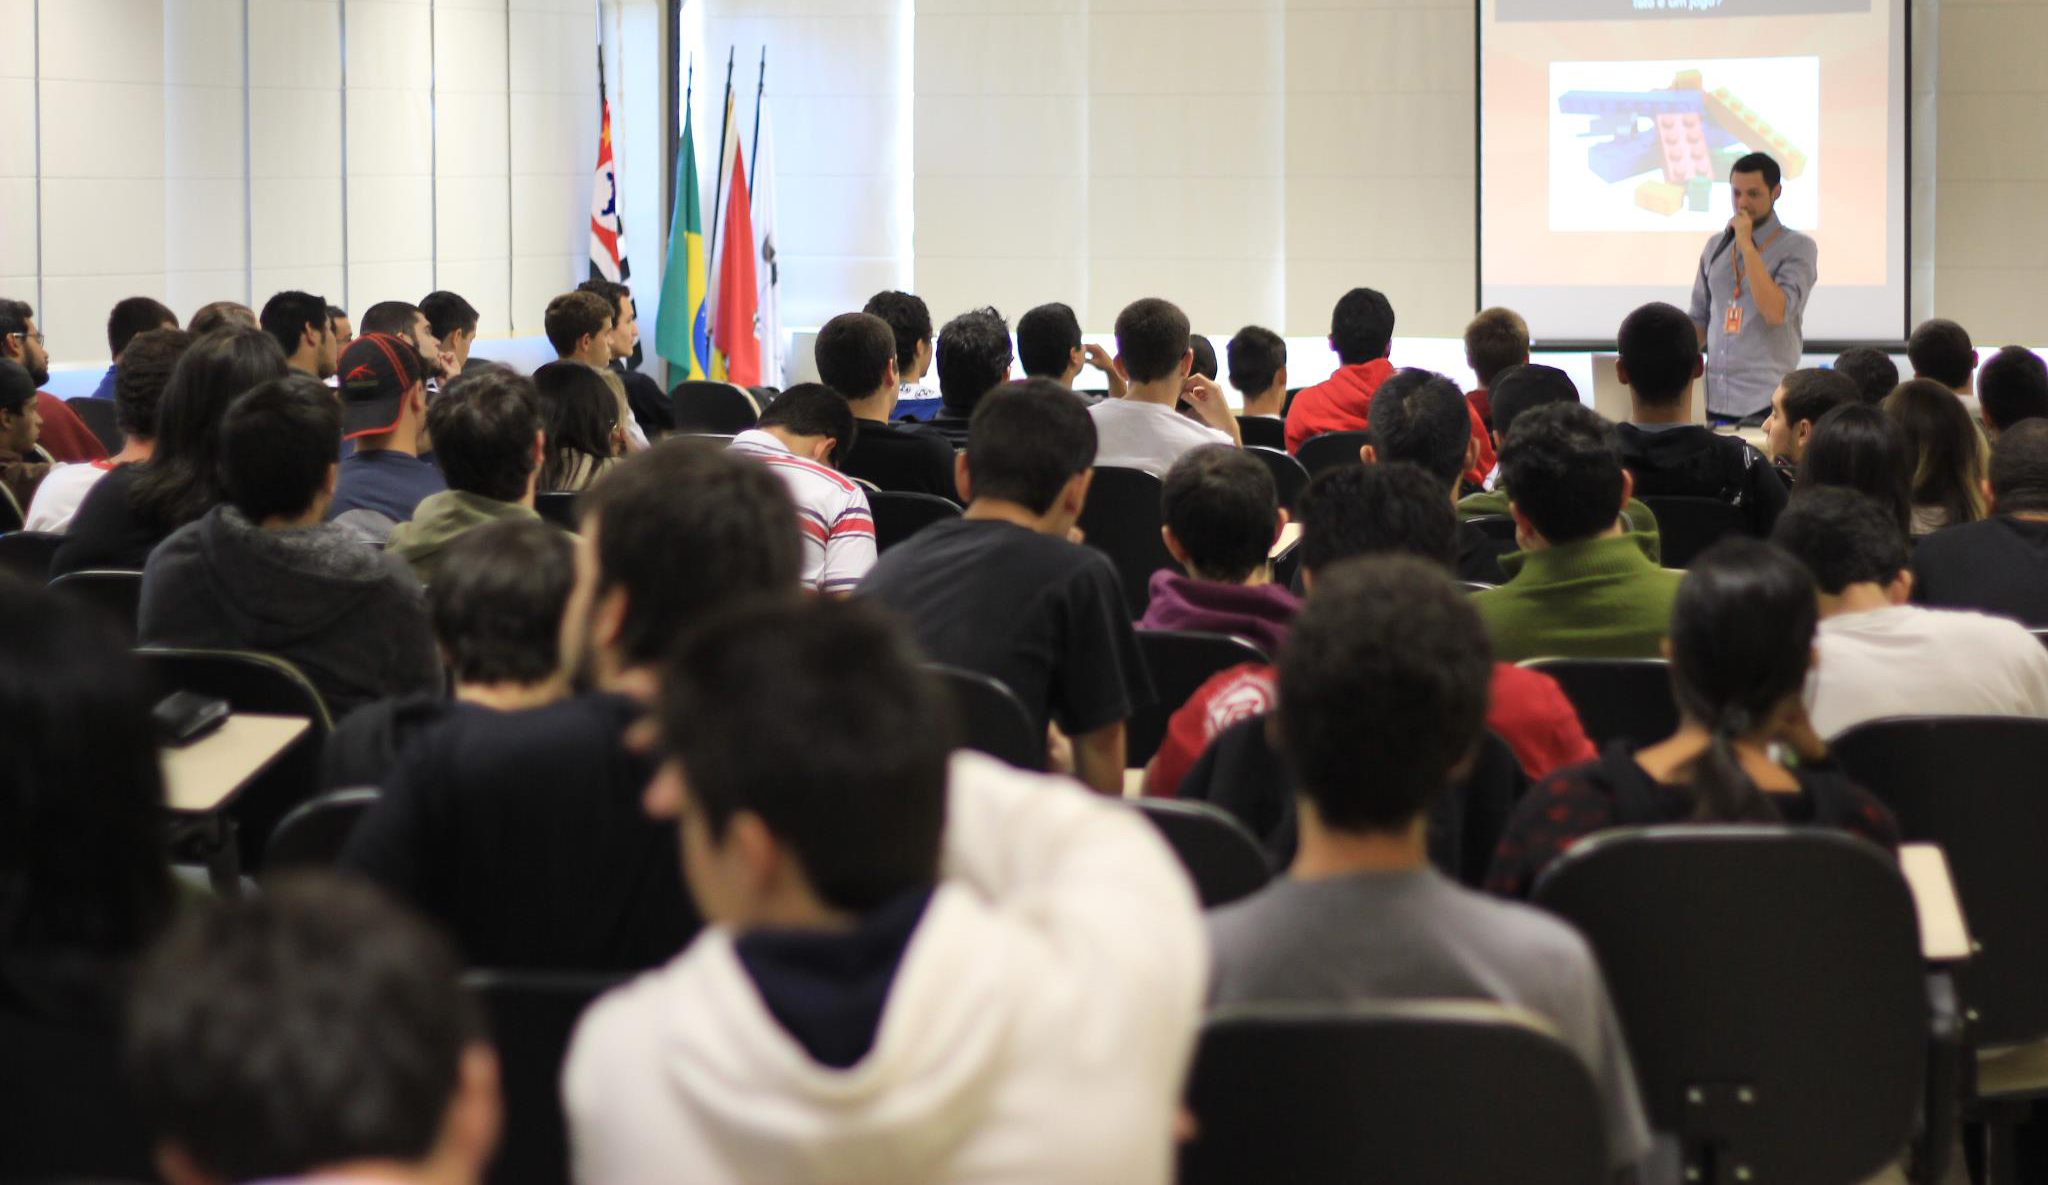
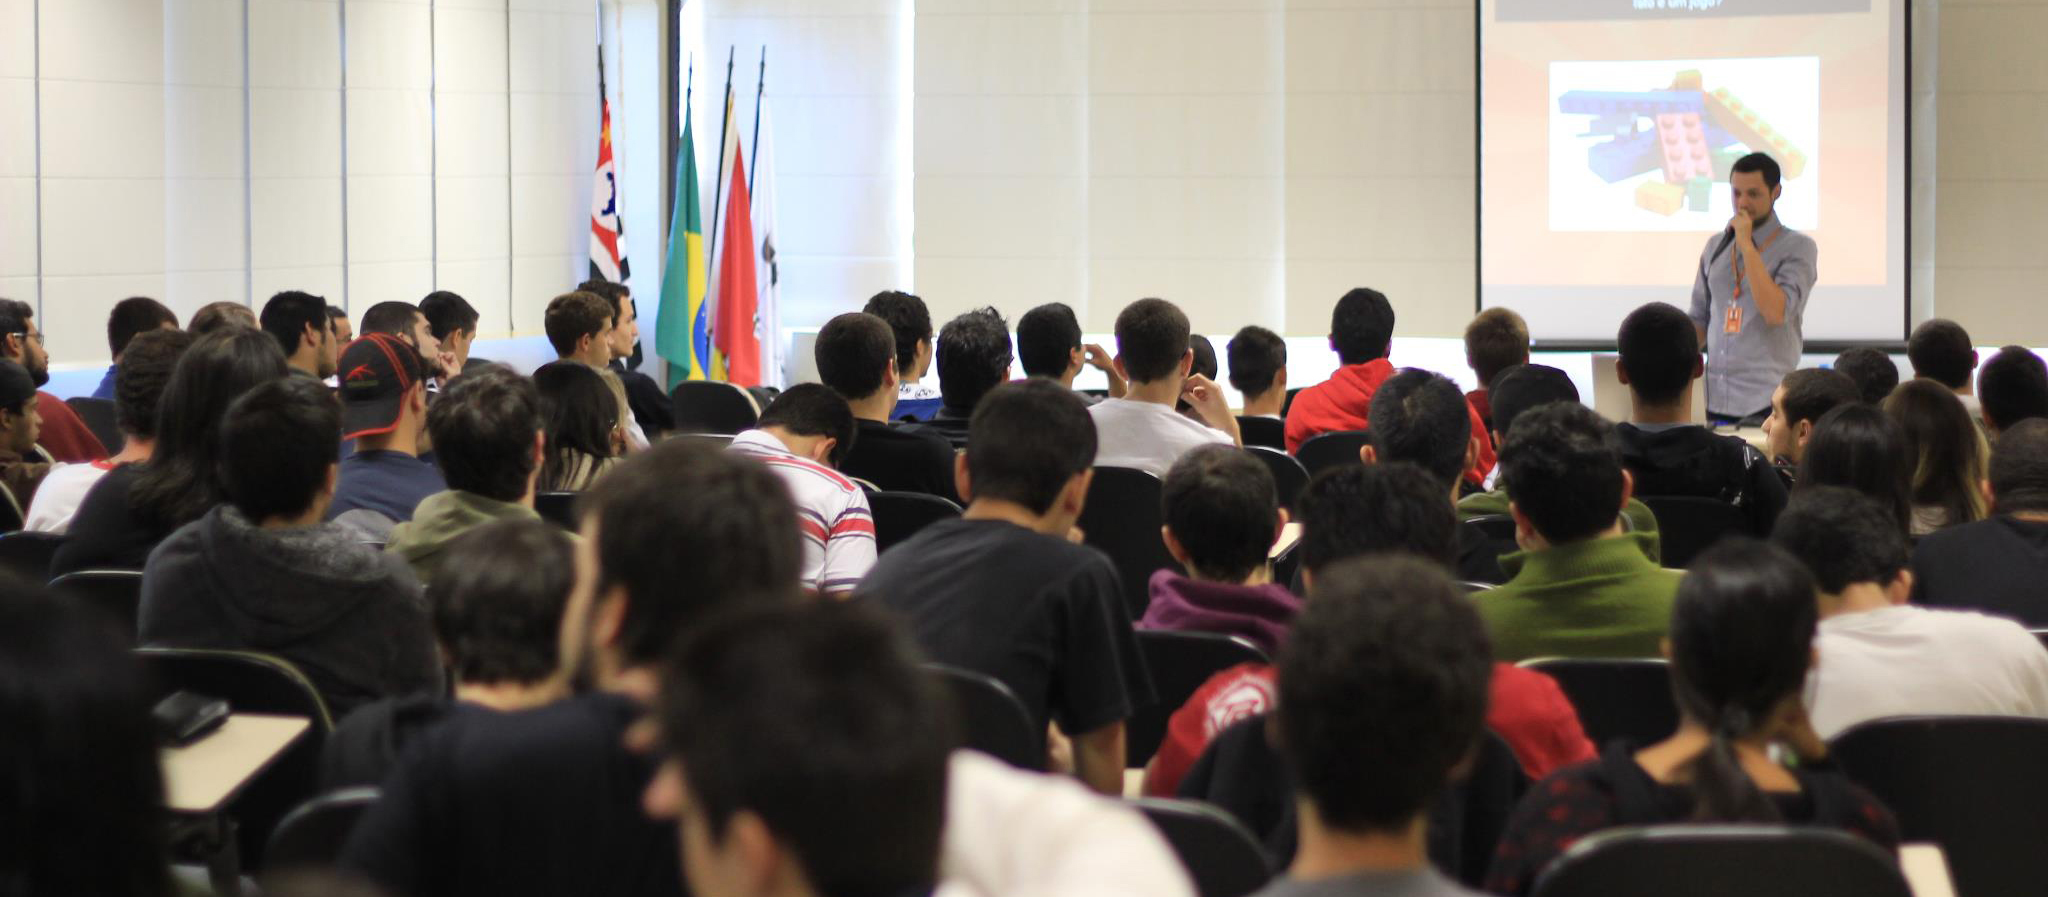
first image cropped (height) & guests and schedule sections created

diff --git a/css/style.css b/css/style.css
@@ -47,8 +47,12 @@
   .row,
   .card-wrap {
     padding: 0 12em !important; } }
+/* End media queries*/
+body {
+  font-family: 'Raleway', sans-serif; }
+
+/* Start nav + session 1 (header)*/
 nav {
-  font-family: 'Raleway', sans-serif;
   font-weight: 700;
   font-size: 0.875em;
   padding: 0.875em; }
@@ -71,7 +75,6 @@ header {
   position: relative;
   background-color: #ECF0F0;
   height: 31.250em;
-  font-family: 'Raleway', sans-serif;
   /* margin-top fix */
   padding-top: 1px;
   margin-top: -1px; }
@@ -126,7 +129,21 @@ header {
 .right-container {
   font-weight: 300; }
 
+/* First session end */
+/* Photo section*/
 section.photo-section img {
   width: 100%; }
+
+/*section preset*/
+section.clean {
+  background-color: white;
+  padding: 4em 4em 2em 4em;
+  margin: 0 auto;
+  color: #555; }
+  section.clean h2 {
+    font-weight: 400;
+    font-size: 2em; }
+
+/*guests session*/
 
 /*# sourceMappingURL=style.css.map */

diff --git a/css/style.scss b/css/style.scss
@@ -68,8 +68,15 @@
 	}
 }
 
-nav {
+/* End media queries*/
+
+body {
 	font-family: 'Raleway', sans-serif;
+}
+
+/* Start nav + session 1 (header)*/
+
+nav {
 	font-weight: 700;
 	font-size: 0.875em;
 
@@ -102,7 +109,6 @@ header {
 	position: relative;
 	background-color: #ECF0F0;
 	height: 31.250em;
-	font-family: 'Raleway', sans-serif;
 
 	/* margin-top fix */
 	padding-top: 1px;
@@ -179,8 +185,25 @@ header {
 	font-weight: 300;
 }
 
+/* First session end */
+
+/* Photo section*/
 section.photo-section {
 	img {
 		width: 100%;
 	}
 }
+
+/*section preset*/
+section.clean {
+	background-color: white;
+	padding: 4em 4em 2em 4em;
+	margin: 0 auto;
+	color: #555;
+
+	h2 {
+		font-weight: 400;
+		font-size: 2em;
+	}
+}
+/*guests session*/

diff --git a/index.html b/index.html
@@ -40,5 +40,13 @@
 		<img src="./img/presentation.jpg" alt="">
 	</section>
 
+	<section class="clean" id="guests">
+		<h2>Palestrantes</h2>
+	</section>
+
+	<section class="clean" id="schedule">
+		<h2>Agenda</h2>
+	</section>
+
 </body>
 </html>
